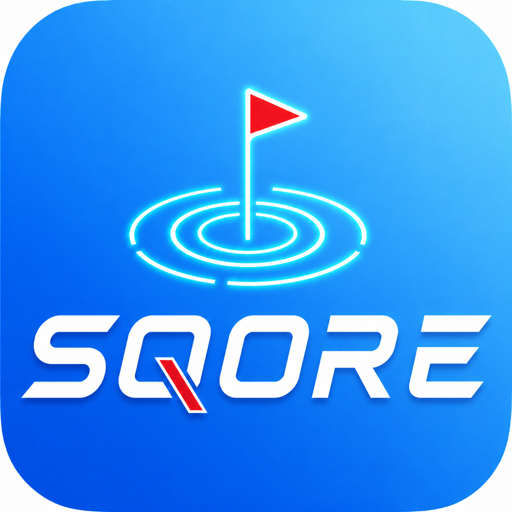
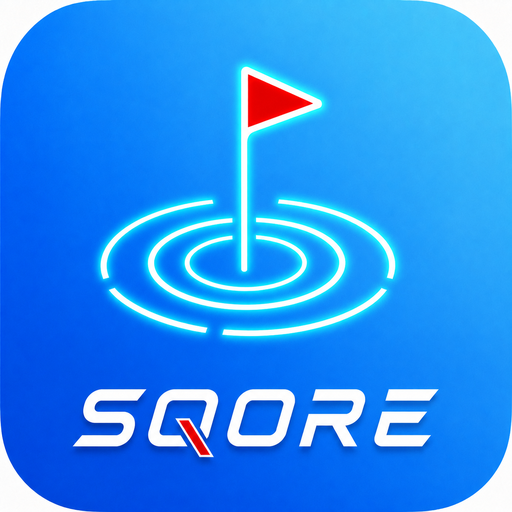
アイコンを新デザインに差し替え＋OGカード再生成
旗と波紋を大きく、SQOREの文字を小さくしたバランスに変更。小サイズでの
識別性を優先。OGカードはコピーも「ゴルフの握りを自動計算で超簡単に」に更新。

- assets/icon_512.png icon_180.png favicon_180.png favicon_32.png
- assets/og_1200x630.png (新アイコン＋新コピー)
- tools/mkog.swift: OGカードの生成スクリプト(次回のために保存)

Claude-Session: https://claude.ai/code/session_01F8oWicwvoYD9QBBZYUNdPD

diff --git a/tools/mkog.swift b/tools/mkog.swift
@@ -1,0 +1,98 @@
+import Cocoa
+import CoreText
+
+// SQORE OGカード再生成: 1200x630
+let W = 1200, H = 630
+let iconPath = NSString(string: "~/Developer/SQORE/SQORE/Assets.xcassets/AppIcon.appiconset/Icon-1024.png").expandingTildeInPath
+let outPath = CommandLine.arguments.count > 1 ? CommandLine.arguments[1] : NSString(string: "~/Desktop/og_new.png").expandingTildeInPath
+
+let cs = CGColorSpaceCreateDeviceRGB()
+guard let ctx = CGContext(data: nil, width: W, height: H, bitsPerComponent: 8, bytesPerRow: 0,
+                          space: cs, bitmapInfo: CGImageAlphaInfo.premultipliedLast.rawValue) else { exit(1) }
+// 左上原点にする
+ctx.translateBy(x: 0, y: CGFloat(H))
+ctx.scaleBy(x: 1, y: -1)
+
+// --- 背景グラデーション(元画像の四隅の実測値をバイリニアで再現) -----------------
+// 元画像は色が x,y の一次式になっているので、ピクセル単位でそのまま再現する
+let TL = (0.0, 163.0, 223.0), TR = (0.0, 120.0, 185.0), BL = (0.0, 151.0, 213.0)
+if let buf = ctx.data {
+    let p = buf.bindMemory(to: UInt8.self, capacity: ctx.bytesPerRow * H)
+    for y in 0..<H {
+        let fy = Double(y) / Double(H)
+        for x in 0..<W {
+            let fx = Double(x) / Double(W)
+            let o = y * ctx.bytesPerRow + x * 4
+            p[o + 0] = UInt8(max(0, min(255, TL.0 + (TR.0 - TL.0) * fx + (BL.0 - TL.0) * fy)))
+            p[o + 1] = UInt8(max(0, min(255, TL.1 + (TR.1 - TL.1) * fx + (BL.1 - TL.1) * fy)))
+            p[o + 2] = UInt8(max(0, min(255, TL.2 + (TR.2 - TL.2) * fx + (BL.2 - TL.2) * fy)))
+            p[o + 3] = 255
+        }
+    }
+}
+
+// --- アイコン ---------------------------------------------------------------
+let iconRect = CGRect(x: 110, y: 165, width: 300, height: 300)
+let radius: CGFloat = 67
+if let src = NSImage(contentsOfFile: iconPath),
+   let cg = src.cgImage(forProposedRect: nil, context: nil, hints: nil) {
+    ctx.saveGState()
+    ctx.setShadow(offset: CGSize(width: 0, height: -10), blur: 28,
+                  color: CGColor(red: 0, green: 0.12, blue: 0.25, alpha: 0.35))
+    ctx.beginPath()
+    ctx.addPath(CGPath(roundedRect: iconRect, cornerWidth: radius, cornerHeight: radius, transform: nil))
+    ctx.setFillColor(CGColor(red: 0, green: 0.4, blue: 0.8, alpha: 1))
+    ctx.fillPath()
+    ctx.restoreGState()
+
+    ctx.saveGState()
+    ctx.addPath(CGPath(roundedRect: iconRect, cornerWidth: radius, cornerHeight: radius, transform: nil))
+    ctx.clip()
+    ctx.saveGState()
+    ctx.translateBy(x: 0, y: iconRect.midY * 2)
+    ctx.scaleBy(x: 1, y: -1)          // 画像は上下反転して描く
+    ctx.draw(cg, in: iconRect)
+    ctx.restoreGState()
+    ctx.restoreGState()
+} else {
+    FileHandle.standardError.write("icon load failed\n".data(using: .utf8)!)
+    exit(1)
+}
+
+// --- テキスト ---------------------------------------------------------------
+func font(_ name: String, _ size: CGFloat) -> CTFont { CTFontCreateWithName(name as CFString, size, nil) }
+
+func draw(_ s: String, x: CGFloat, top: CGFloat, font f: CTFont, color: CGColor) -> CGFloat {
+    let attr = NSAttributedString(string: s, attributes: [
+        .font: f, .foregroundColor: color,
+    ])
+    let line = CTLineCreateWithAttributedString(attr)
+    let bounds = CTLineGetBoundsWithOptions(line, .useOpticalBounds)
+    // top = 文字の上端の、画面上端からの距離
+    ctx.saveGState()
+    ctx.translateBy(x: x - bounds.minX, y: top + bounds.maxY)
+    ctx.scaleBy(x: 1, y: -1)
+    ctx.textPosition = .zero
+    CTLineDraw(line, ctx)
+    ctx.restoreGState()
+    return CTLineGetTypographicBounds(line, nil, nil, nil)
+}
+
+let white = CGColor(red: 1, green: 1, blue: 1, alpha: 1)
+let yellow = CGColor(red: 255/255, green: 198/255, blue: 90/255, alpha: 1)
+
+// SQORE (実測: x=482, 上端152 下端228)
+_ = draw("SQORE", x: 480, top: 129, font: font("HelveticaNeue-Bold", 96), color: white)
+// 1行目 (実測: x=485, 上端303 下端354)
+_ = draw("ゴルフの握りを", x: 479, top: 302, font: font("HiraginoSans-W6", 53), color: white)
+// 2行目 (実測: x=486, 上端391 下端443)
+let w1 = draw("自動計算", x: 479, top: 390, font: font("HiraginoSans-W6", 54), color: yellow)
+_ = draw("で超簡単に", x: 479 + w1 + 18, top: 390, font: font("HiraginoSans-W6", 54), color: white)
+// サブ (実測: x=481, 上端489 下端516)
+_ = draw("オリンピック・ラスベガス・ナッソーなど多数対応", x: 479, top: 488, font: font("HiraginoSans-W3", 28), color: white)
+
+guard let img = ctx.makeImage() else { exit(1) }
+let rep = NSBitmapImageRep(cgImage: img)
+guard let png = rep.representation(using: .png, properties: [:]) else { exit(1) }
+try! png.write(to: URL(fileURLWithPath: outPath))
+print("saved \(outPath)")
